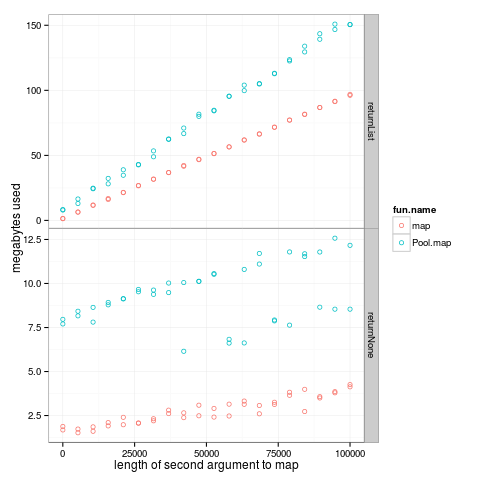
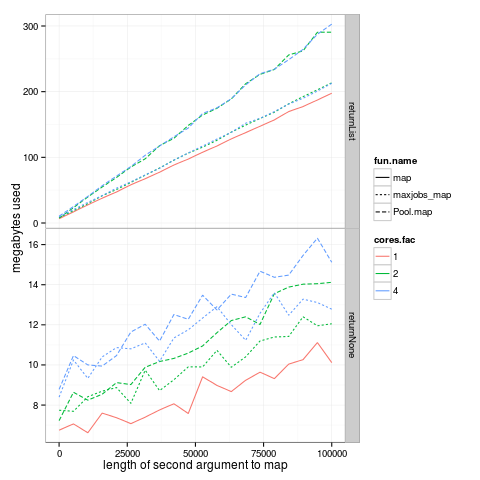
python maxjobs

diff --git a/multiprocess.py b/multiprocess.py
@@ -14,26 +14,31 @@ def returnList(x):
 if __name__ == '__main__':
     width = int(sys.argv[1])
     height = int(sys.argv[2])
-    cores = int(sys.argv[3])
+    cores_str = sys.argv[3]
+    no_maxjobs = cores_str.replace("maxjobs", "")
+    cores = int(no_maxjobs)
     print(width, height, cores)
+    p = Pool(cores)
+    MAXJOBS=100
+    def maxjobs_map(f, items):
+        first_i = 0
+        result = []
+        while first_i < len(items):
+            after_last_i = first_i + MAXJOBS
+            some_items = items[first_i:after_last_i]
+            result += p.map(f, some_items)
+            first_i += MAXJOBS
+        return result
+    if cores == 1:
+        MAP = map
+    else:
+        if "maxjobs" in cores_str:
+            MAP = maxjobs_map
+        else:
+            MAP = p.map
     if height == 1:
         base_list = list(range(width))
+        MAP(returnNone, base_list)
     else:
         base_list = [list(range(height)) for x in range(width)]
-
-    if cores == 1:
-        if height == 1:
-            print "returnNone map"
-            result = list(map(returnNone, base_list))
-        else:
-            print "returnList map"
-            result = list(map(returnList, base_list))
-    else:
-        p = Pool(cores)
-        if height == 1:
-            print "returnNone Pool.map"
-            result = p.map(returnNone, base_list)
-        else:
-            print "returnList Pool.map"
-            result = p.map(returnList, base_list)
-        
+        MAP(returnList, base_list)
